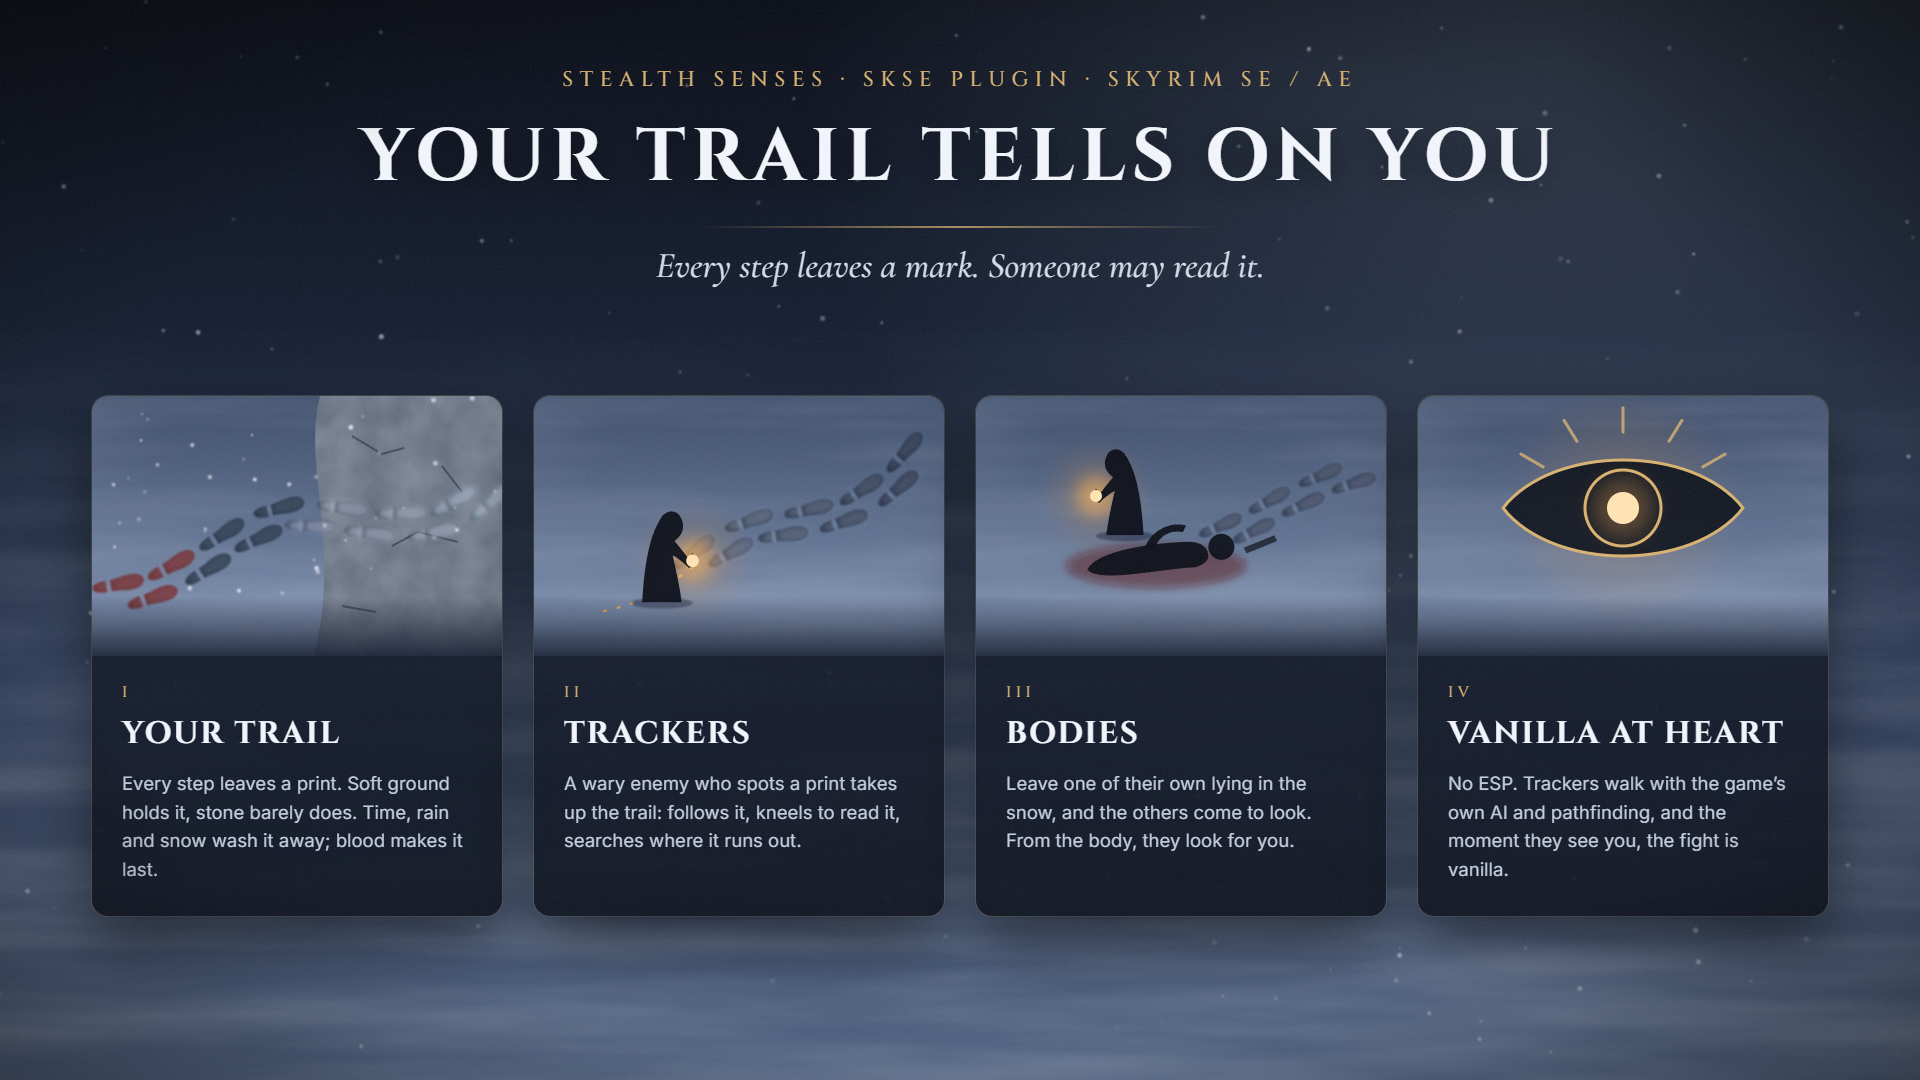
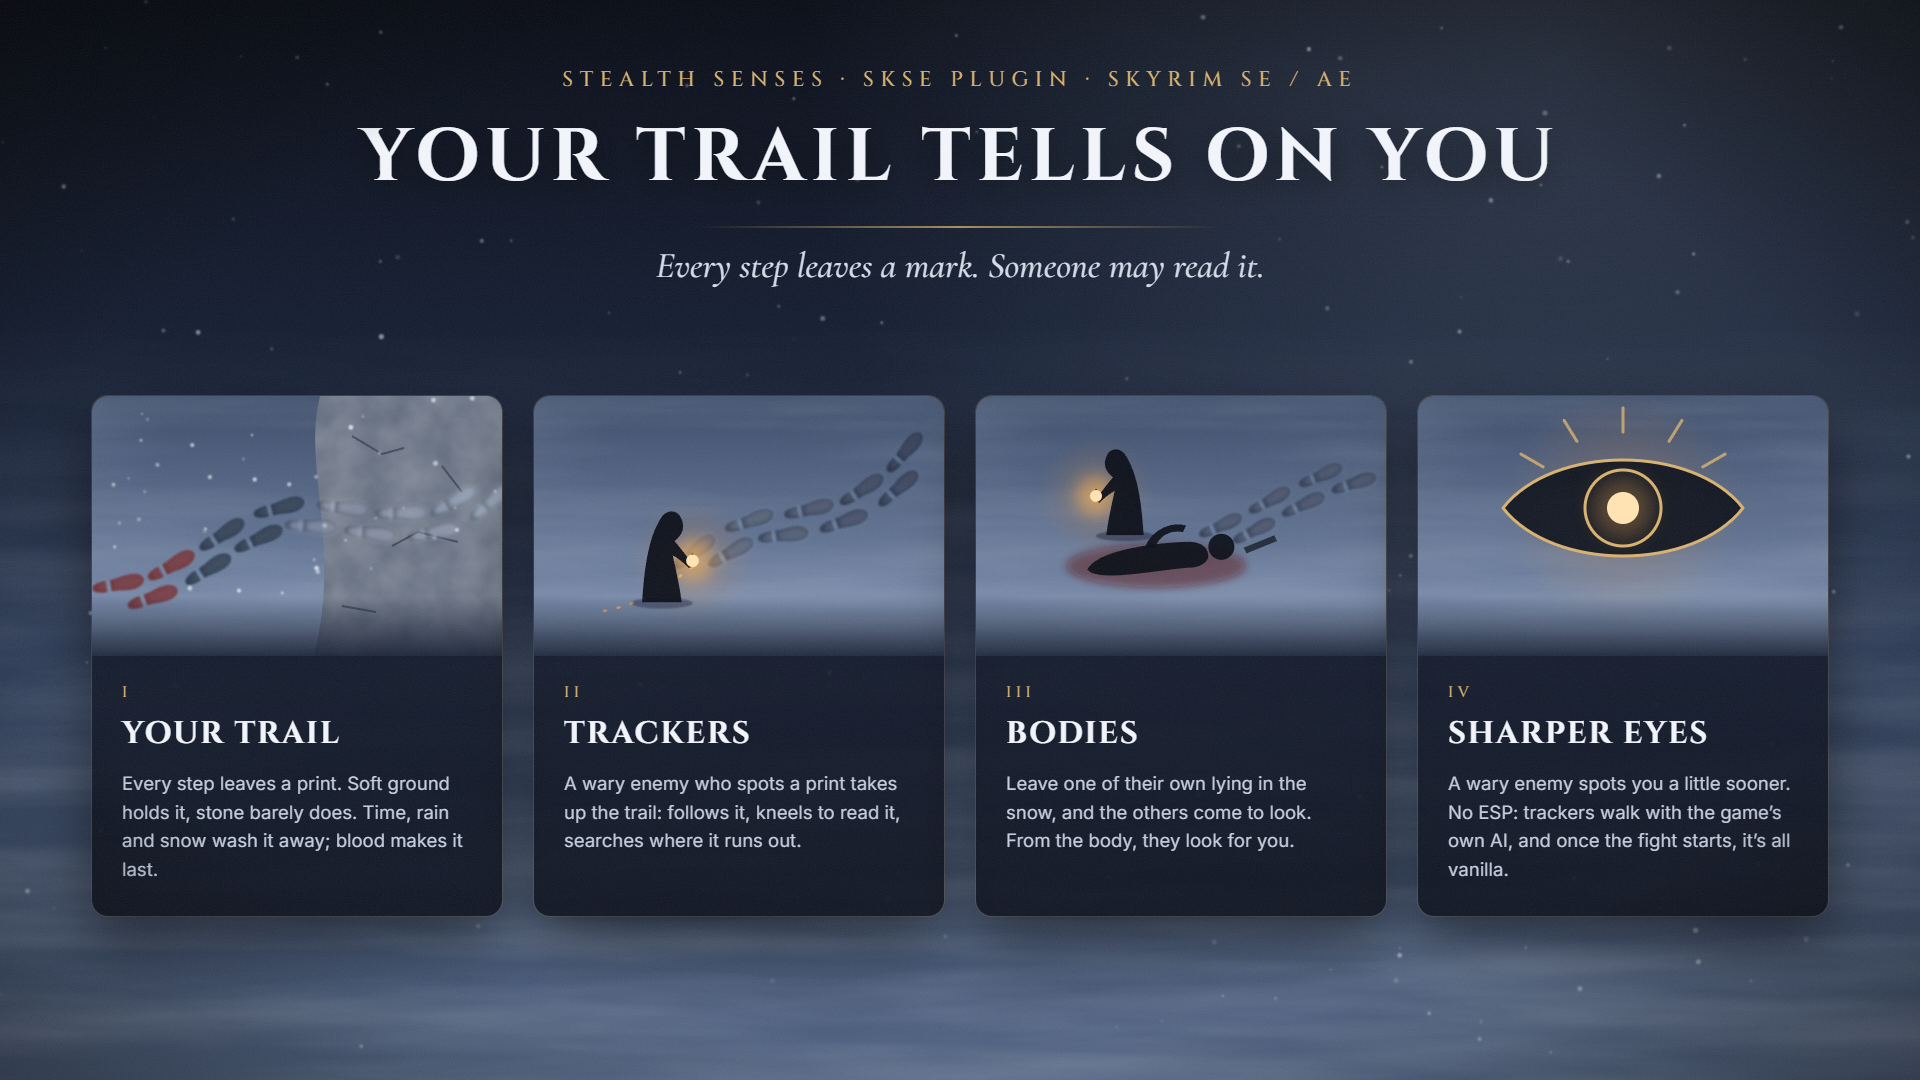
Release 0.9.0
Sharper senses (detection bonus for wary NPCs, vanilla in combat), height
filter for trackers, stuck loop fix, Papyrus Extender compatibility.
Promo card IV becomes "Sharper eyes"; Nexus description updated.

Claude-Session: https://claude.ai/code/session_011CufLjUrVVdgCKkoMwu6Xj

Changed region(s): [[0.75, 0.6417, 0.9375, 0.7944]]

diff --git a/tools/art/promo.html b/tools/art/promo.html
@@ -163,7 +163,7 @@ if (MODE === 'features') {
     ['I', 'Your trail', 'Every step leaves a print. Soft ground holds it, stone barely does. Time, rain and snow wash it away; blood makes it last.', drawTrail],
     ['II', 'Trackers', 'A wary enemy who spots a print takes up the trail: follows it, kneels to read it, searches where it runs out.', drawTracker],
     ['III', 'Bodies', 'Leave one of their own lying in the snow, and the others come to look. From the body, they look for you.', drawBody],
-    ['IV', 'Vanilla at heart', 'No ESP. Trackers walk with the game’s own AI and pathfinding, and the moment they see you, the fight is vanilla.', drawEye],
+    ['IV', 'Sharper eyes', 'A wary enemy spots you a little sooner. No ESP: trackers walk with the game’s own AI, and once the fight starts, it’s all vanilla.', drawEye],
   ];
   content.innerHTML = `<div class="panels">${PANELS.map(([k, t, p]) =>
     `<div class="panel"><svg width="410" height="260" viewBox="0 0 410 260"></svg>

diff --git a/CHANGELOG.md b/CHANGELOG.md
@@ -1,5 +1,12 @@
 # Changelog
 
+## 0.9.0 — 2026-10-10
+
+- **Sharper senses** — an enemy with a reason to be wary spots you a little sooner: its stealth meter on you reads a few points higher while it is on your trail (+15), after a fight with you is over (+10) or after it found a body (+10). In combat nothing changes — the vanilla search after an arrow from hiding is as easy to slip as before. New `detection` section: `enabled`, `tracker_bonus`, `after_fight_bonus`, `found_body_bonus`.
+- **Ledges and floors** — trackers no longer notice or follow footprints far above or below them (on a ledge, a cliff top, the floor above) and no longer stand frozen trying to reach them. Climbing a slope after you still works. New option: `tracker.max_height_diff` (200).
+- **Fix** — a tracker that could not walk to a line of footprints no longer stands in place for a minute; it gives up after about 20 seconds.
+- **Compatibility** — works with powerofthree's Papyrus Extender, which hooks the same detection call (tested with 6.5.2).
+
 ## 0.8.1 — 2026-10-08
 
 - **A fight is only an interruption** — a tracker that runs into a wolf, a bear or a guard on your trail fights it and then goes back to your trail where it left off, instead of forgetting it. A fight with you or your followers still hands it to the vanilla AI, and so does a fight longer than a minute. New option: `fight_pause_seconds`.
